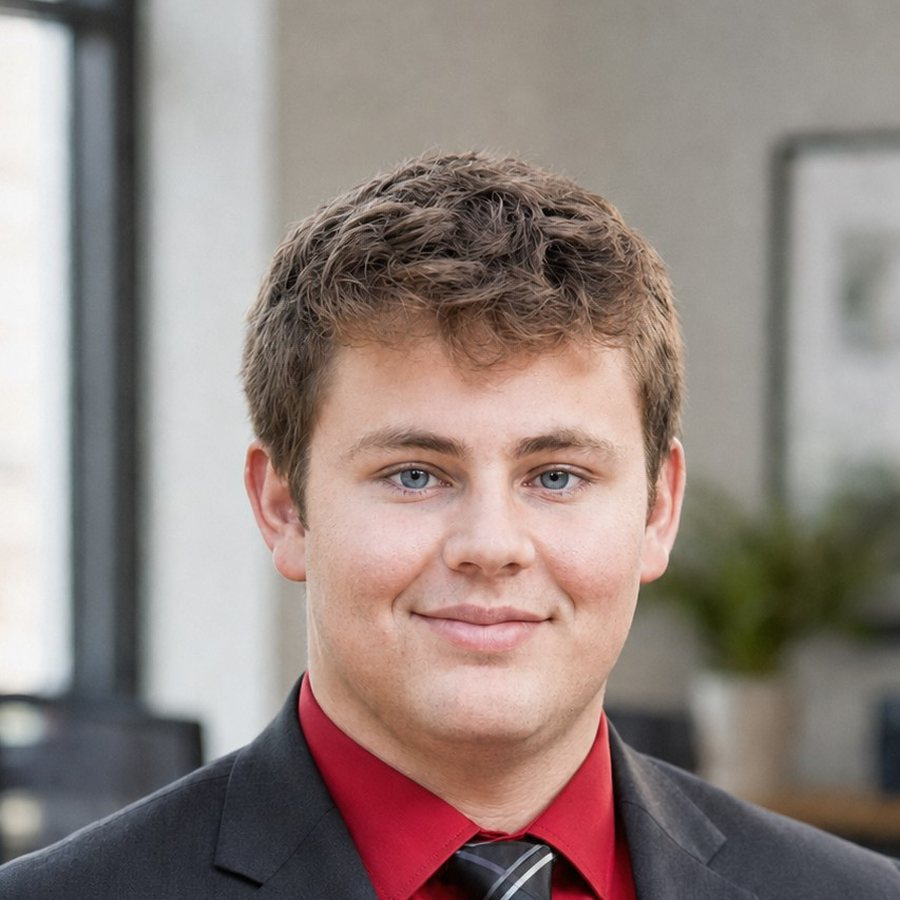
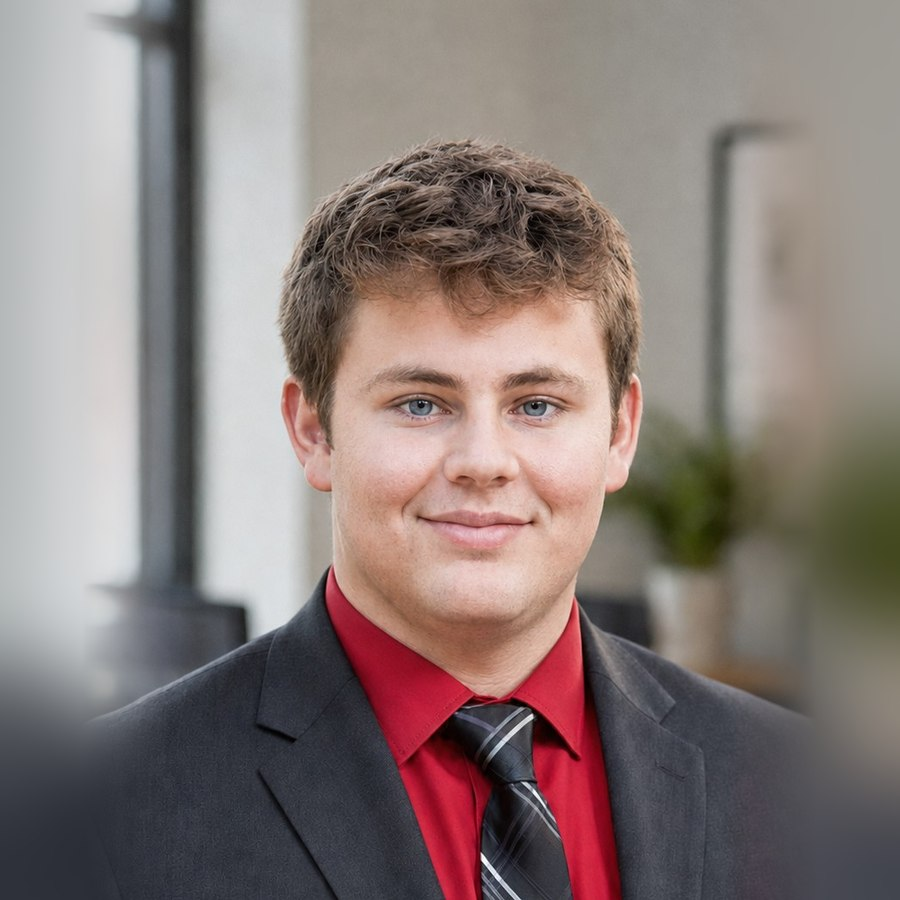
Add files via upload

diff --git a/src/data/leadership.ts b/src/data/leadership.ts
@@ -72,18 +72,18 @@ export const leadership: Leader[] = [
   },
   {
     name: 'Mark Burgett',
-    title: 'Chief Cybersecurity and Infrastructure Engineer — In Training',
+    title: 'Chief Cybersecurity & Infrastructure Engineer (In Training)',
     summary:
-      'United States Navy veteran building the cybersecurity, infrastructure and operational systems that protect what has been entrusted to the ministry.',
+      'United States Navy veteran building the cybersecurity, infrastructure and technology systems behind the ministries and operations entrusted to his care.',
     bio: [
-      'Mark Burgett has been an integral part of the Suttles family ministry journey and has faithfully served alongside Jason and Shannon Suttles. Throughout the years, Mark has been involved in the life and ministry of their family, including participating in the welcoming and care of those God brought into their home and community.',
+      'Mark Burgett has been an integral part of the Suttles family ministry journey and has faithfully served alongside Jason and Shannon Suttles. Over the years, Mark has been part of the life and ministry of their family, participating in the culture of prayer, service, and obedience that has shaped their calling. He has also played a role in welcoming and supporting those God has brought into their home and community.',
       'Mark served in the United States Navy, where he developed a strong foundation of discipline, commitment, and service. He has continued expanding his technical expertise through education in information technology and is pursuing further specialization in cybersecurity to strengthen his ability to serve in technology, security, and infrastructure.',
-      'Mark serves as the Chief Cybersecurity and Infrastructure Engineer — In Training for Ember Ridge, Firebrand Revivalists, and associated ministry operations. In this role, he supports cybersecurity initiatives, technology infrastructure, and operational systems while working alongside Jason and Shannon Suttles to strengthen the digital foundation supporting ministry and business operations.',
-      'With a passion for technology, strategy, and innovation, Mark brings a unique combination of technical ability, creativity, focus, and servant leadership. He has also pursued excellence in competitive gaming, where he has developed discipline, problem-solving skills, and a platform through which he seeks to honor the Lord and steward his gifts.',
-      'Mark’s heart is to use his abilities in technology and leadership to serve God’s purposes, protect what has been entrusted to the ministry, and help build secure infrastructure that supports the continued advancement of the Kingdom.',
+      'Mark serves as Chief Cybersecurity & Infrastructure Engineer (In Training), supporting Firebrand Revivalists, Ember Ridge, associated ministries, and the business operations stewarded by Jason and Shannon Suttles. In this role, he supports cybersecurity initiatives, technology infrastructure, systems management, and strategic technology planning to help ensure that the organizations and operations entrusted to him remain secure, efficient, and aligned with their mission.',
+      'With a passion for technology, strategy, and innovation, Mark brings a unique combination of technical ability, creativity, focus, and servant leadership. He has also pursued excellence in competitive gaming, where he has developed discipline, problem-solving skills, and a platform through which he seeks to honor the Lord and steward the gifts God has given him.',
+      'Mark’s heart is to use his abilities in technology and leadership to serve God’s purposes, strengthen the infrastructure behind the work being built, and help protect and advance the ministries, organizations, and operations he has been entrusted to support.',
     ],
     image: '/images/leadership/mark-burgett.jpg',
-    alt: 'Portrait of Mark Burgett, Chief Cybersecurity and Infrastructure Engineer — In Training',
+    alt: 'Portrait of Mark Burgett, Chief Cybersecurity and Infrastructure Engineer',
   },
 ];
 
